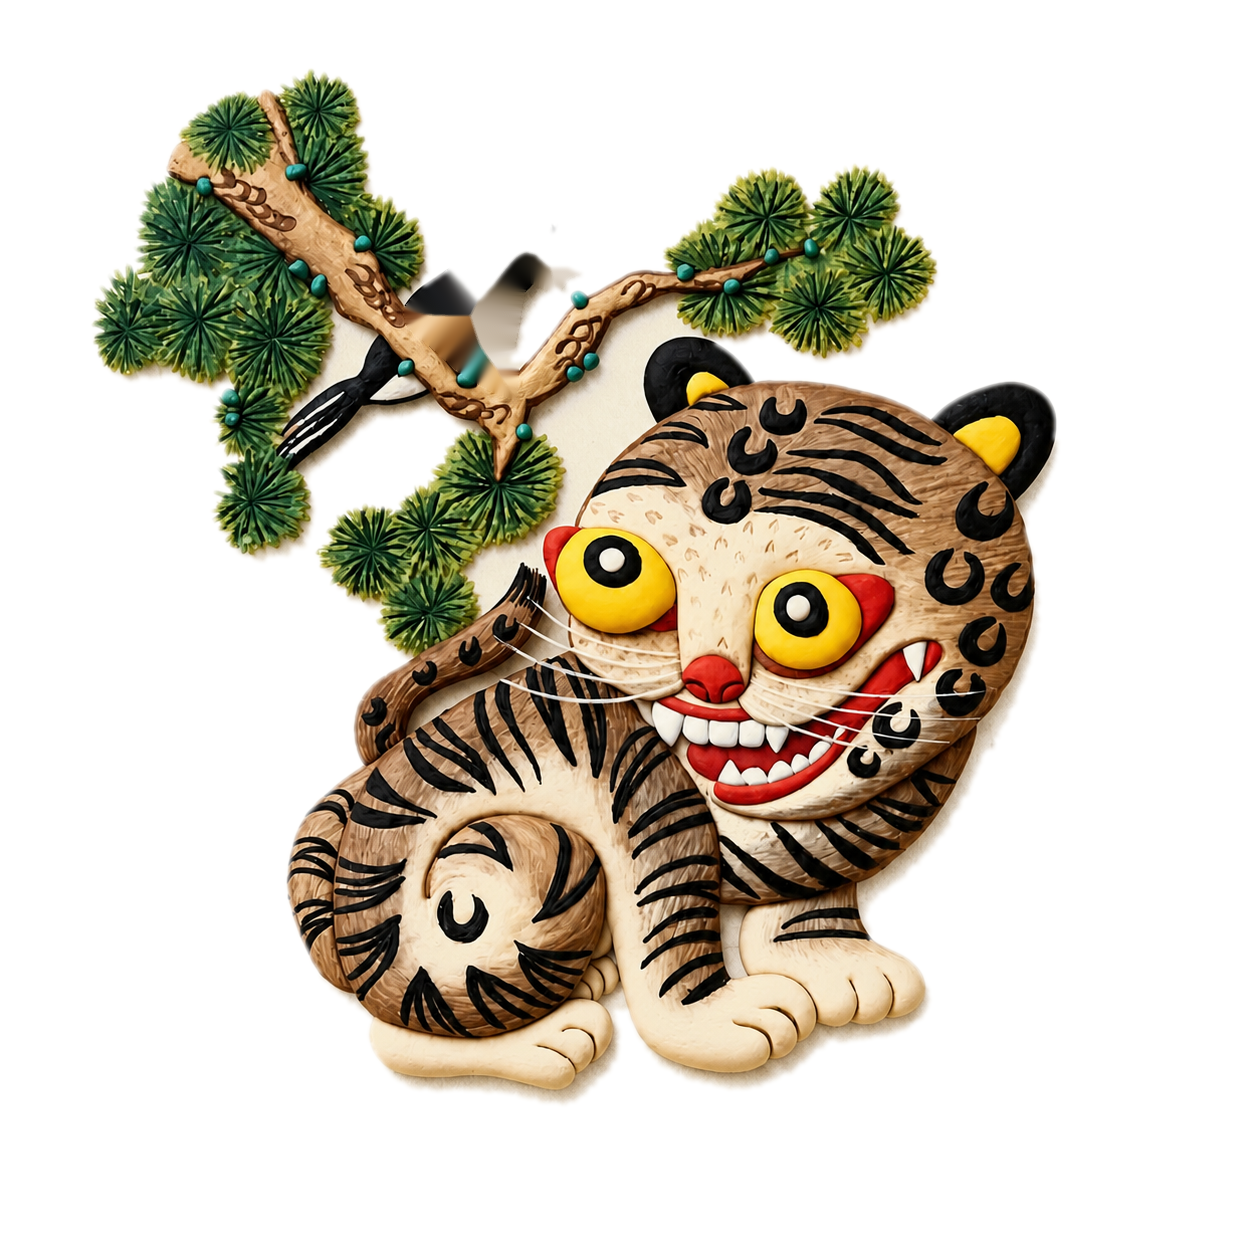
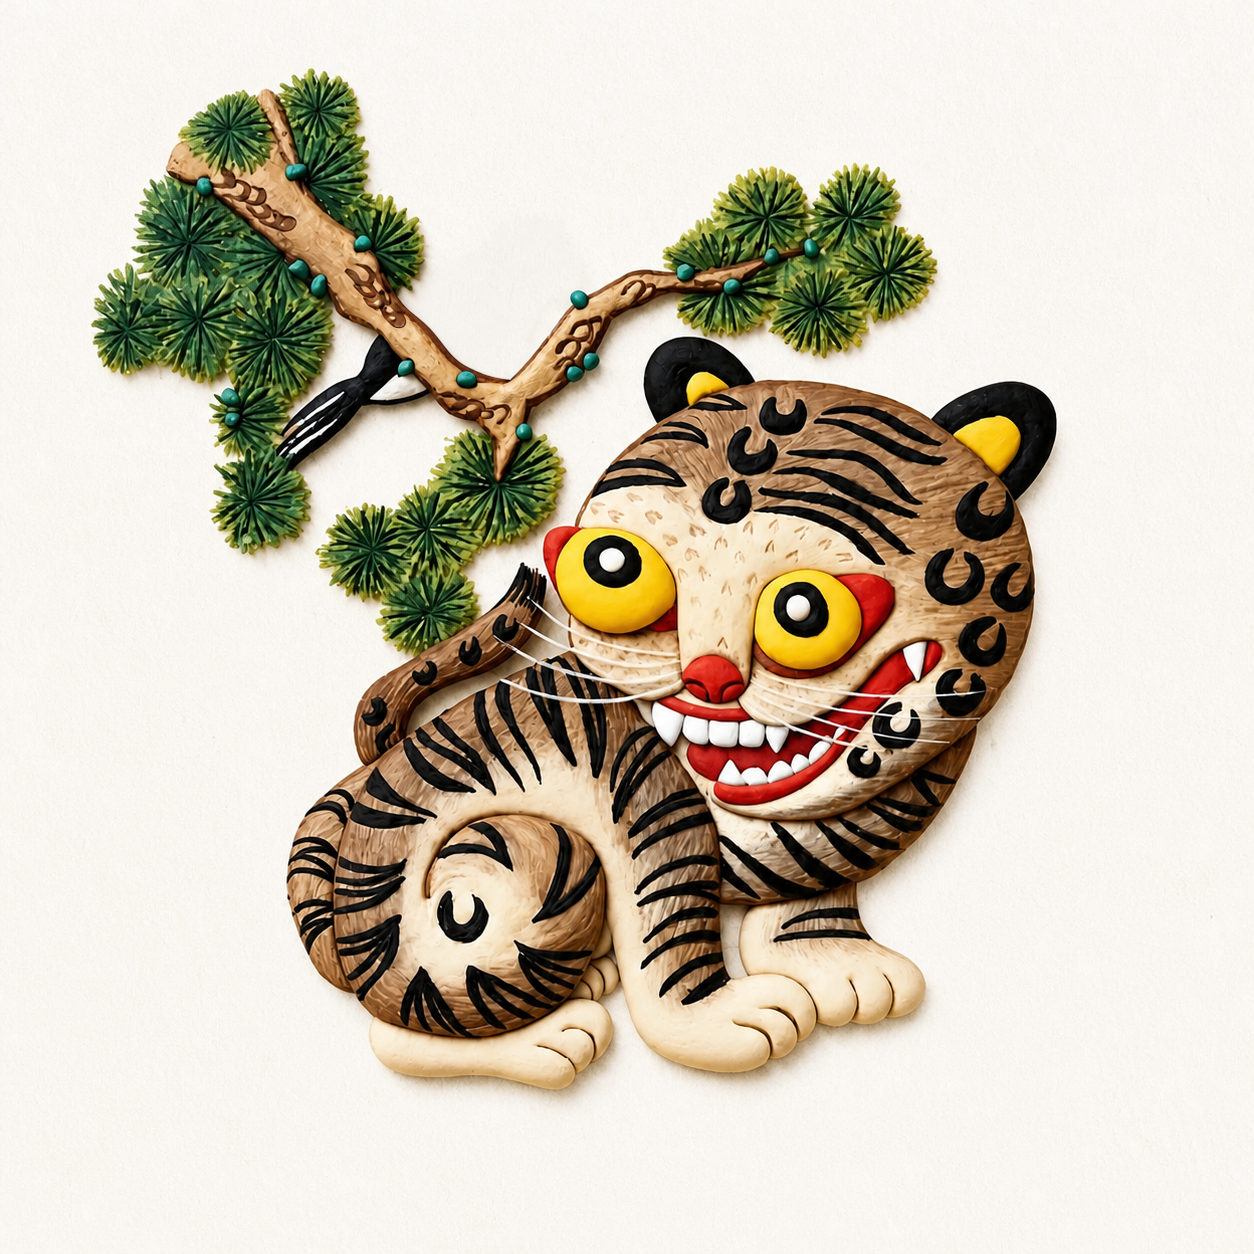
fix(hero): clean magpie cutout and a repainted branch under it
The bird's body is re-matted from the unframed plate: the branch chunk,
berry and paper shadow that had been baked into the cutout are gone, the
beak gap is transparent again, and the edge carries no paper fringe. The
plate behind it is rebuilt — the fork of the branch and the paper are
painted back in where the body stood, so a nod no longer uncovers a grey
inpaint smudge.

The tail stays in the plate because the branch crosses in front of it;
the branch hides the join. transform-origin now sits on the leg where it
meets the twig (43% 88%) instead of the bottom of the old box, and the
overlay box is re-fitted to the new cutout.

diff --git a/src/components/home/Hero.tsx b/src/components/home/Hero.tsx
@@ -8,16 +8,25 @@ import { localeHref } from "@/lib/utils";
  * Signature HOME hero (server-rendered, always shown).
  *
  * Left: the frameless hojakdo plate — `hojakdo-base` is the painting with the
- * magpie removed and the branch healed underneath, and `hojakdo-magpie` is the
- * bird cut out as its own transparent layer. The bird is nudged by one CSS
- * keyframe (globals.css → `.hero-magpie`), so the page ships no runtime script
- * and still breathes. Overlap geometry is expressed in percentages of the
- * plate, so the two images stay aligned at every width.
+ * magpie's body taken out and the branch fork healed underneath, and
+ * `hojakdo-magpie` is that body cut out as its own transparent layer.
+ *
+ * Only the body moves. The bird's tail lies *behind* the branch in the
+ * painting, so it stays in the plate: the branch itself hides the join, and a
+ * nodding body over a settled tail is what a perched bird looks like. The
+ * cutout carries the bird's own leg down to the branch, which is where the CSS
+ * `transform-origin` sits, so the bird pivots on the twig instead of swinging
+ * from its tail.
+ *
+ * The bird is nudged by one CSS keyframe (globals.css → `.hero-magpie`), so the
+ * page ships no runtime script and still breathes. Overlap geometry is
+ * expressed in percentages of the plate, so the two images stay aligned at
+ * every width.
  *
  * Right: the story — the worldview this studio is building, not a list.
  */
 export function Hero({ locale, dict }: { locale: Locale; dict: Dictionary }) {
-  const MAGPIE = { left: "32.30%", top: "17.46%", width: "14.04%" };
+  const MAGPIE = { left: "32.06%", top: "17.30%", width: "14.51%" };
 
   return (
     <section className="hanji-hero relative overflow-hidden border-b border-line">
@@ -43,8 +52,8 @@ export function Hero({ locale, dict }: { locale: Locale; dict: Dictionary }) {
                 src="/hero/hojakdo-magpie.png"
                 alt=""
                 aria-hidden
-                width={176}
-                height={179}
+                width={182}
+                height={164}
                 className="hero-magpie pointer-events-none absolute select-none"
                 style={{ left: MAGPIE.left, top: MAGPIE.top, width: MAGPIE.width }}
               />

diff --git a/src/app/globals.css b/src/app/globals.css
@@ -206,13 +206,14 @@
    * HOME hero — the magpie layer.
    * The bird is a separate transparent PNG laid over the base plate; this is
    * the only motion on the page that is not a hover state. It nods and hops
-   * from the branch (transform-origin at the feet), the way a perched bird
-   * does: a deep nod, a lift, a little bounce, no still stretch in the loop.
-   * The swing is deliberately wide — a small bird in a phone-sized plate needs
-   * a broad nod (roughly −8° to +4°, lifting 8px) before the eye catches it.
+   * from the branch (transform-origin at the point where its leg meets the
+   * twig), the way a perched bird does: a deep nod, a lift, a little bounce,
+   * no still stretch in the loop. The swing is deliberately wide — a small
+   * bird in a phone-sized plate needs a broad nod (roughly −8° to +4°, lifting
+   * 8px) before the eye catches it.
    */
   .hero-magpie {
-    transform-origin: 45% 100%;
+    transform-origin: 43% 88%;
     animation: magpie-nod 2.4s cubic-bezier(0.37, 0, 0.63, 1) infinite;
     will-change: transform;
   }
